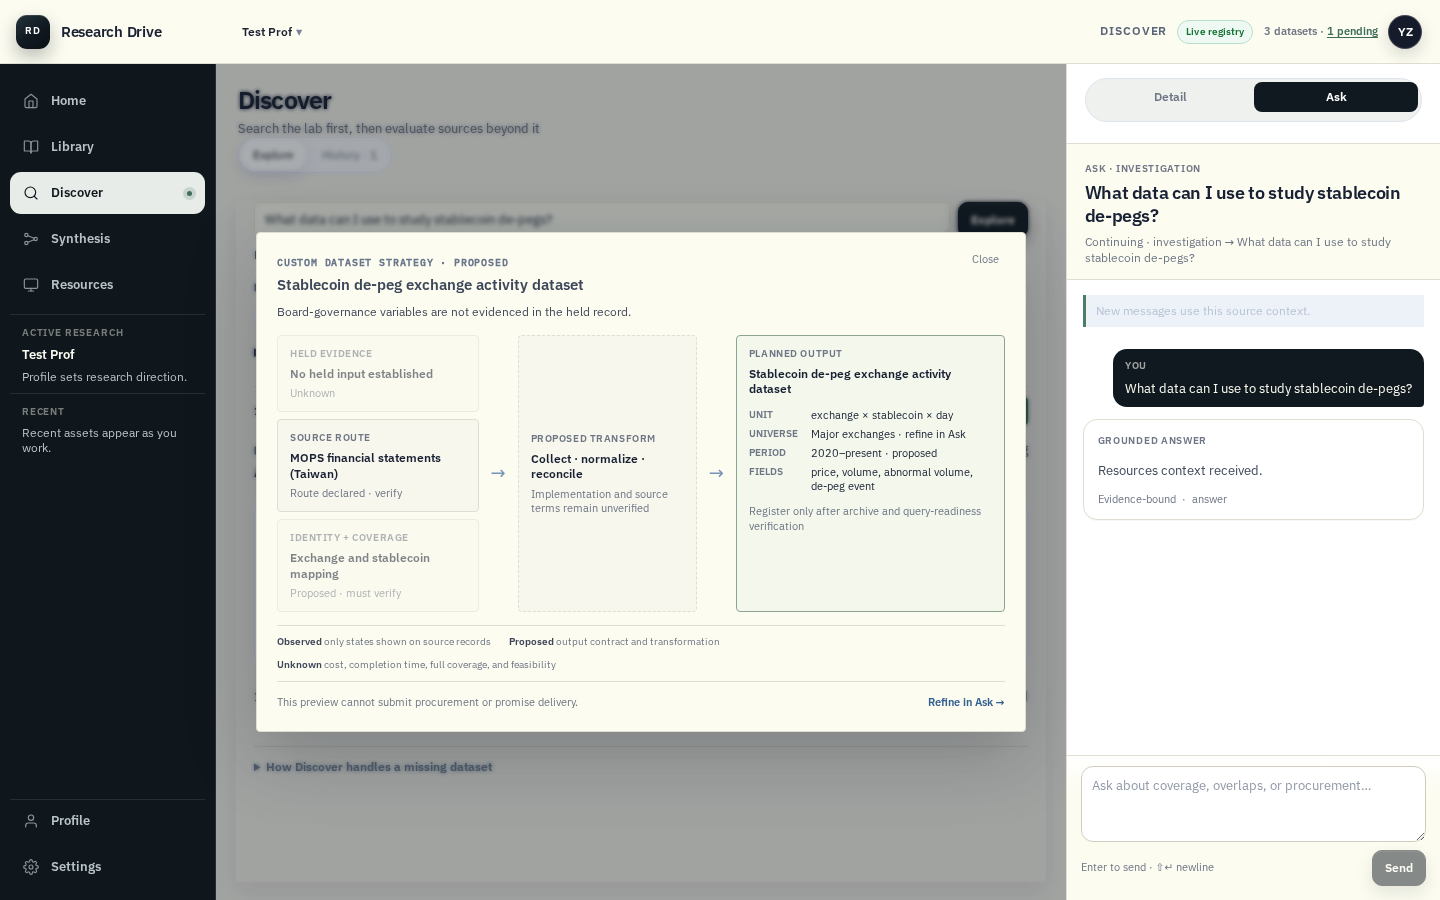
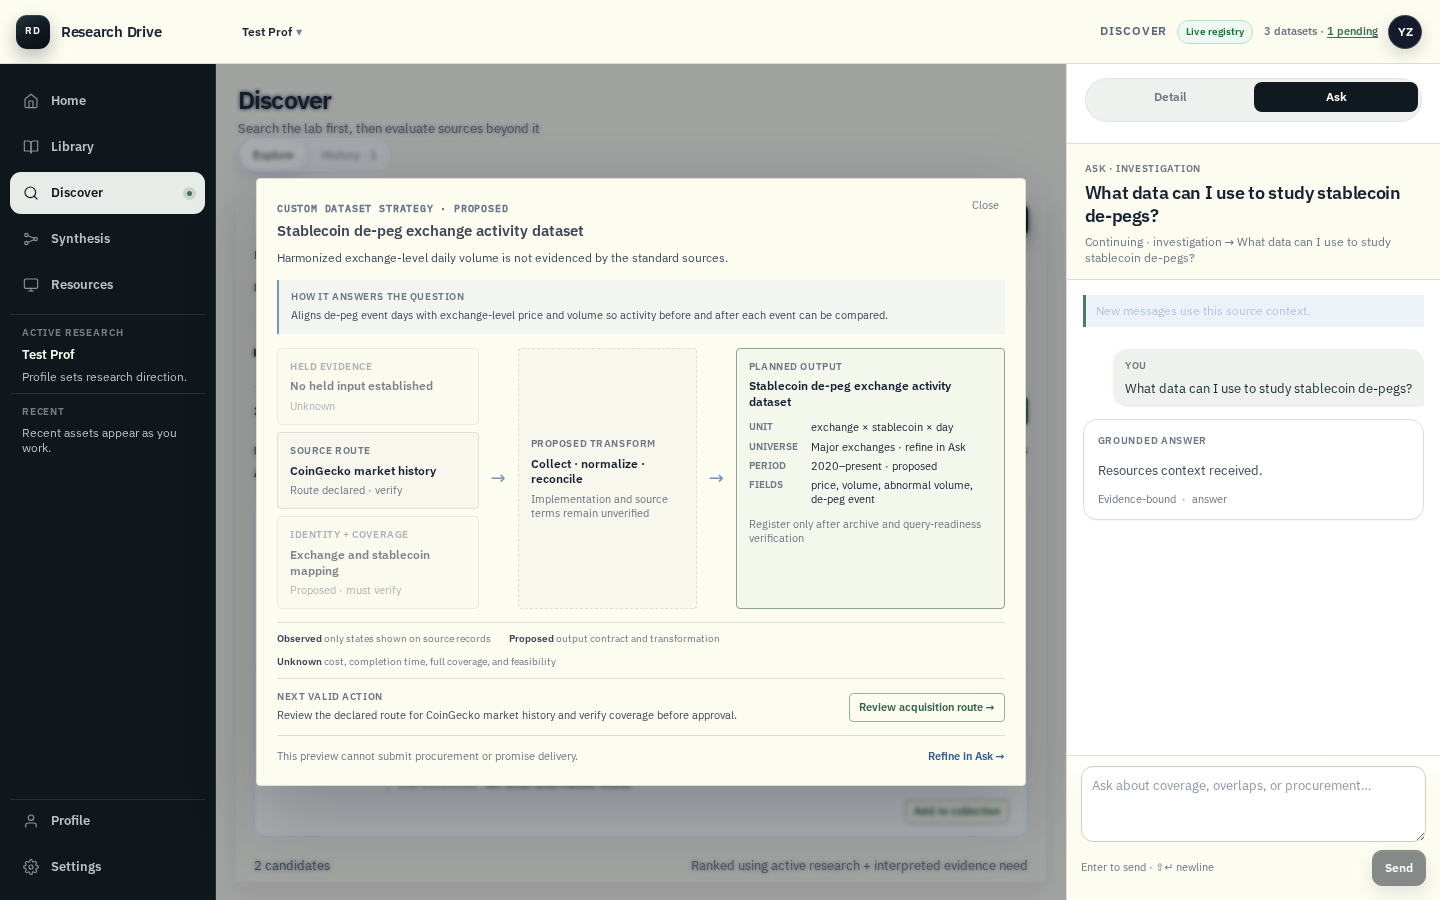
fix(discover): close frozen strategy conformance gaps

diff --git a/drive/src/v2/BrowsePage.jsx b/drive/src/v2/BrowsePage.jsx
@@ -346,6 +346,28 @@ function DiscoverRouteComparison({
   const outputTitle = stablecoin
     ? "Stablecoin de-peg exchange activity dataset"
     : "Research-ready evidence dataset";
+  const answerLine = stablecoin
+    ? "Aligns de-peg event days with exchange-level price and volume so activity before and after each event can be compared."
+    : `Produces the proposed ${readRequirement("unit", "research unit")} evidence needed to address the recorded gap alongside held evidence.`;
+  const nextAction = publicRoute
+    ? {
+        text: `Review the declared route for ${candidateTitle(publicRoute)} and verify coverage before approval.`,
+        label: "Review acquisition route",
+        run: () => onReviewAcquisition?.(publicRoute),
+      }
+    : accessRoute
+      ? {
+          text: `Review entitlement and permitted coverage for ${candidateTitle(accessRoute)} before choosing a route.`,
+          label: "Review access route",
+          run: () => onReviewAcquisition?.(accessRoute),
+        }
+      : {
+          text: "Clarify the missing source and coverage constraints in Ask before recording implementation work.",
+          label: "Refine in Ask",
+          run: () => onAsk?.(
+            `Refine a custom dataset strategy for: ${query}. The current gap is: ${gap?.statement || "not fully specified"}. Ask for the missing source and coverage constraints. Do not submit procurement.`,
+          ),
+        };
   const inputCards = [
     held ? {
       label: "Held evidence",
@@ -409,6 +431,10 @@ function DiscoverRouteComparison({
         <p className="rd-v2-discover-route-intro">
           {gap?.statement || "The standard sourcing path does not yet establish every part of this evidence need."}
         </p>
+        <section className="rd-v2-discover-strategy-answer">
+          <span>How it answers the question</span>
+          <p>{answerLine}</p>
+        </section>
         <div className="rd-v2-discover-strategy-flow" aria-label="Proposed dataset strategy">
           <div className="rd-v2-discover-strategy-inputs">
             {inputCards.map((input) => (
@@ -448,6 +474,13 @@ function DiscoverRouteComparison({
           <span><b>Proposed</b> output contract and transformation</span>
           <span><b>Unknown</b> cost, completion time, full coverage, and feasibility</span>
         </div>
+        <section className="rd-v2-discover-strategy-next">
+          <div>
+            <span>Next valid action</span>
+            <p>{nextAction.text}</p>
+          </div>
+          <button type="button" onClick={nextAction.run}>{nextAction.label} →</button>
+        </section>
         <footer>
           <p>This preview cannot submit procurement or promise delivery.</p>
           <button type="button" onClick={() => onAsk?.(

diff --git a/drive/src/v2/v2.css b/drive/src/v2/v2.css
@@ -5741,6 +5741,29 @@
   font-size: 11.5px;
   line-height: 1.45;
 }
+.rd-v2-discover-strategy-answer {
+  display: grid;
+  gap: 4px;
+  margin-top: 13px;
+  padding: 10px 12px;
+  border-left: 2px solid #7894b8;
+  background: color-mix(in srgb, #dbe7f3 24%, transparent);
+}
+.rd-v2-discover-strategy-answer > span,
+.rd-v2-discover-strategy-next span {
+  color: var(--rd-muted);
+  font-size: 9.5px;
+  font-weight: 720;
+  letter-spacing: .06em;
+  text-transform: uppercase;
+}
+.rd-v2-discover-strategy-answer p,
+.rd-v2-discover-strategy-next p {
+  margin: 0;
+  color: var(--rd-body);
+  font-size: 11px;
+  line-height: 1.45;
+}
 .rd-v2-discover-route-compare > header > button {
   border: 0;
   background: transparent;
@@ -5825,6 +5848,27 @@
   font-size: 10px;
 }
 .rd-v2-discover-strategy-truth b { color: var(--rd-body); }
+.rd-v2-discover-strategy-next {
+  display: flex;
+  align-items: center;
+  justify-content: space-between;
+  gap: 18px;
+  padding: 11px 0;
+  border-bottom: 1px solid var(--rd-border);
+}
+.rd-v2-discover-strategy-next > div { display: grid; gap: 4px; }
+.rd-v2-discover-strategy-next > button {
+  flex: 0 0 auto;
+  padding: 6px 9px;
+  border: 1px solid color-mix(in srgb, #3f6f5c 44%, var(--rd-border));
+  border-radius: 4px;
+  background: var(--rd-surface);
+  color: #35634f;
+  cursor: pointer;
+  font: inherit;
+  font-size: 10.5px;
+  font-weight: 680;
+}
 
 .rd-v2-discover-intent-scrim {
   position: fixed;
@@ -5983,6 +6027,8 @@
     border-radius: 4px 4px 0 0;
   }
   .rd-v2-discover-route-compare > footer { align-items: flex-start; flex-direction: column; }
+  .rd-v2-discover-strategy-next { align-items: stretch; flex-direction: column; }
+  .rd-v2-discover-strategy-next > button { align-self: flex-start; }
   .rd-v2-discover-intent-scrim { inset: 0; align-items: end; padding: 0; }
   .rd-v2-discover-intent-modal {
     width: 100%;

diff --git a/e2e/v2-discover-evidence.spec.js b/e2e/v2-discover-evidence.spec.js
@@ -130,9 +130,12 @@ test.describe("Discover adaptive Explore", () => {
     await page.getByRole("button", { name: "Custom strategy ready" }).click();
     const comparison = page.getByTestId("discover-route-comparison");
     await expect(comparison).toBeVisible();
+    await expect(comparison).toContainText("How it answers the question");
     await expect(comparison).toContainText("Proposed transform");
     await expect(comparison).toContainText("Planned output");
     await expect(comparison).toContainText("Unknown");
+    await expect(comparison).toContainText("Next valid action");
+    await expect(comparison.getByRole("button", { name: /Review acquisition route/ })).toBeVisible();
     await expect(comparison).toContainText("cannot submit procurement");
 
     await comparison.getByRole("button", { name: /MOPS financial statements/ }).click();

diff --git a/drive/src/v2/discoverComposition.js b/drive/src/v2/discoverComposition.js
@@ -1,6 +1,6 @@
 /**
- * Discover Explore composition — DISCOVER_FULL_SCALE_FREEZE_2026-07-15.md
- * Ranked centre: interpreting chips → Best fit → Other matches.
+ * Discover adaptive Explore composition — DISCOVER_ADAPTIVE_FREEZE_2026-07-28.md
+ * One composer → immediate results → compact evidence chrome → contextual Ask.
  * Legacy groupDiscoverBrowseRows kept for tests / alternate buckets.
  */
 

diff --git a/docs/DISCOVER_ADAPTIVE_FREEZE_2026-07-28.md b/docs/DISCOVER_ADAPTIVE_FREEZE_2026-07-28.md
@@ -445,7 +445,7 @@ The first four external rows and their descriptions must remain readable without
 
 ---
 
-## 12. Hard acceptance
+## 12. Release acceptance
 
 An implementation is conformant only when:
 
@@ -466,7 +466,7 @@ no mutation occurs without explicit review / approval
 History preserves the complete decision chain
 ```
 
-Required rendered journeys:
+Required before production release:
 
 ```text
 idle Explore
@@ -525,11 +525,14 @@ Any change to this model must amend this file and [`UI_PRODUCT_AUTHORITY.md`](UI
 
 ## 15. Frozen rendered evidence and implementation boundary
 
-The exact implementation reviewed with this freeze is captured here:
+The exact implementation reviewed in this slice is captured here:
 
 - [question results + automatic Ask](status/generated/discover-freeze-2026-07-28/results.png)
 - [visual custom-strategy modal](status/generated/discover-freeze-2026-07-28/strategy.png)
 - [read-only live API question + progressive external results](status/generated/discover-freeze-2026-07-28/live-question.png)
+- [acquisition review over preserved results](status/generated/discover-freeze-2026-07-28/acquisition-review.png)
+- [mobile automatic Ask sheet](status/generated/discover-freeze-2026-07-28/mobile-question.png)
+- [mobile question results after collapsing Ask](status/generated/discover-freeze-2026-07-28/mobile-results.png)
 
 Implemented in this slice:
 
@@ -538,6 +541,7 @@ one automatic composer
 deterministic keyword vs research-question routing
 fast results for both paths
 automatic assessment + seeded right-rail Ask for questions
+progressive semantic/web enrichment without clearing first results
 external result priority and normalized descriptions
 small Add to collection row action
 Library evidence chrome instead of a permanent held-results block
@@ -546,15 +550,25 @@ diagram-first custom-strategy modal
 acquisition review as a modal over preserved results
 ```
 
-Still dependent on backend or later lifecycle work:
+The live review artifact proves progressive external discovery, retained Library evidence, and automatic Ask selection. It does **not** prove a live assessment verdict or live `Custom strategy ready`: the public review endpoint rejects the required desk mutation. Those states are exercised only against the committed assessment contract and fixtures in this slice.
+
+Still dependent on a mutation-capable backend or later lifecycle work:
 
 ```text
-automatic progressive semantic/web enrichment without clearing first results
+live assessment verdict and custom-strategy gating
 Ask-authored requirement updates reflected in the strategy without reload
 durable Save strategy action
 complete source feasibility matrix after probes
 History-to-Library proof chain for every route
 production deployment
+```
+
+The remaining production-release journeys not demonstrated by these six captures are:
+
+```text
+Ask clarification → custom strategy ready against a mutation-capable backend
+submission → History
+History → exact Library handoff
 ```
 
 These unfinished items do not authorize substitute pages, permanent panels, fabricated values, or a return to the Search | Ask toggle.
